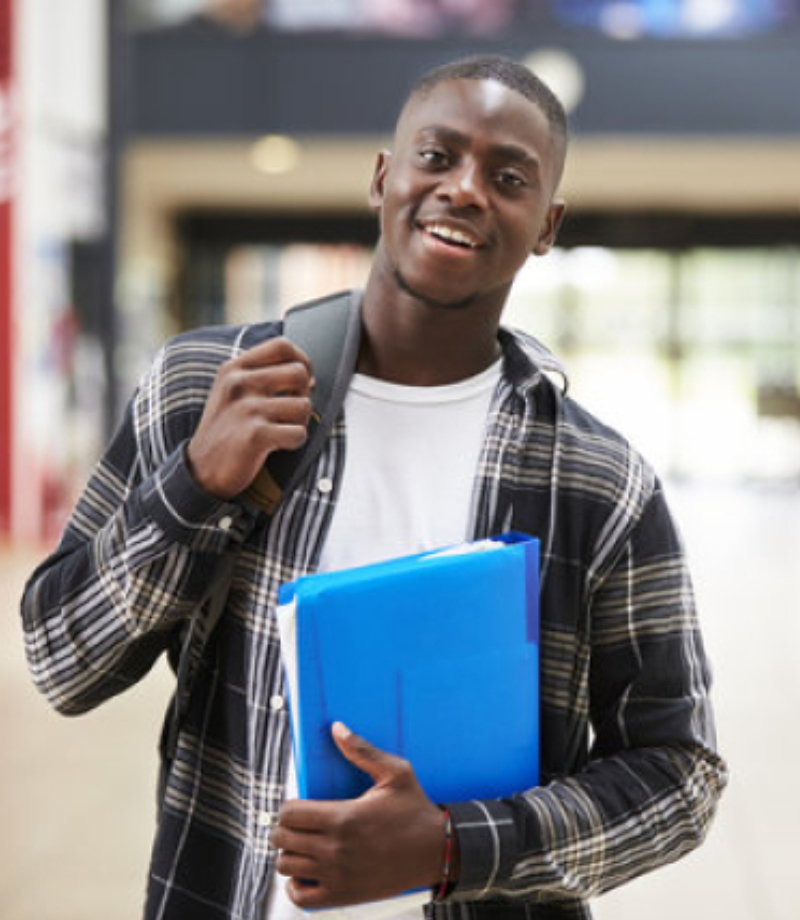
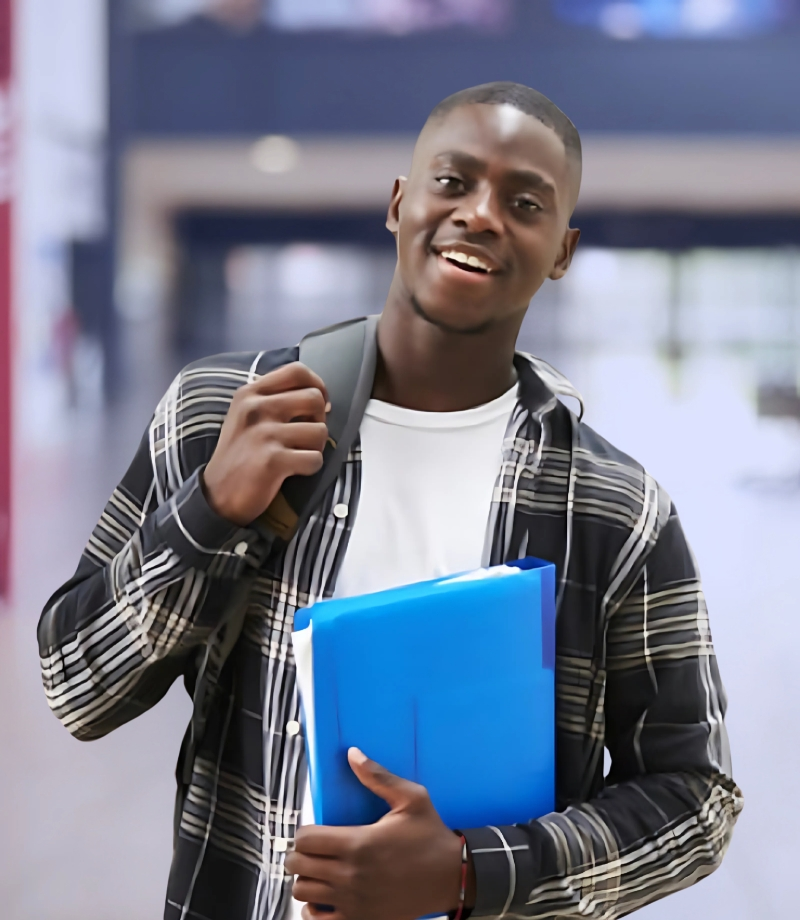
newchanges

diff --git a/index.html b/index.html
@@ -241,10 +241,10 @@
                         </div>
                         <div class="about__student ml-270 mt--80">
                            <a href="#">
-                              <img src="assets/img/hero/hero-1.jpg" alt="">
-                              <img src="assets/img/hero/hero-1.jpg" alt="">
+                              <img src="assets/img/hero/1.jpg" alt="">
+                              <img src="assets/img/hero/3.jpg" alt="">
                               <img src="assets/img/hero/hero-sm-1.jpg" alt="">
-                              <img src="assets/img/hero/hero-1.jpg" alt="">
+                              <img src="assets/img/hero/4.jpg" alt="">
                            </a>
                            <p>Join over <span>1000+</span> students</p>
                         </div>
